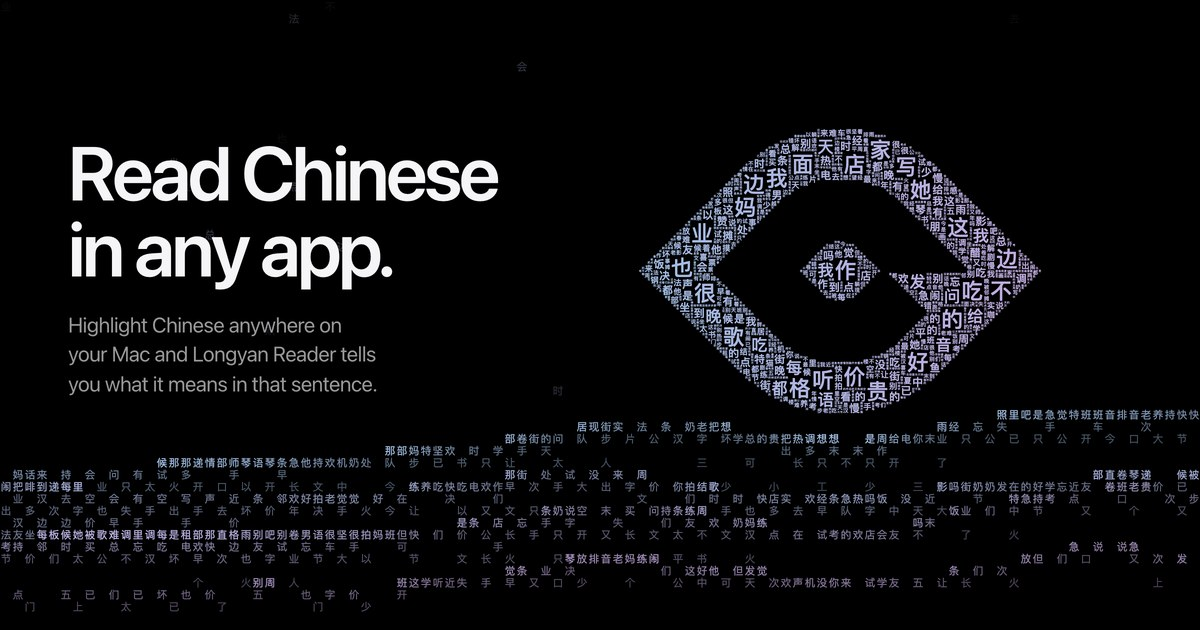
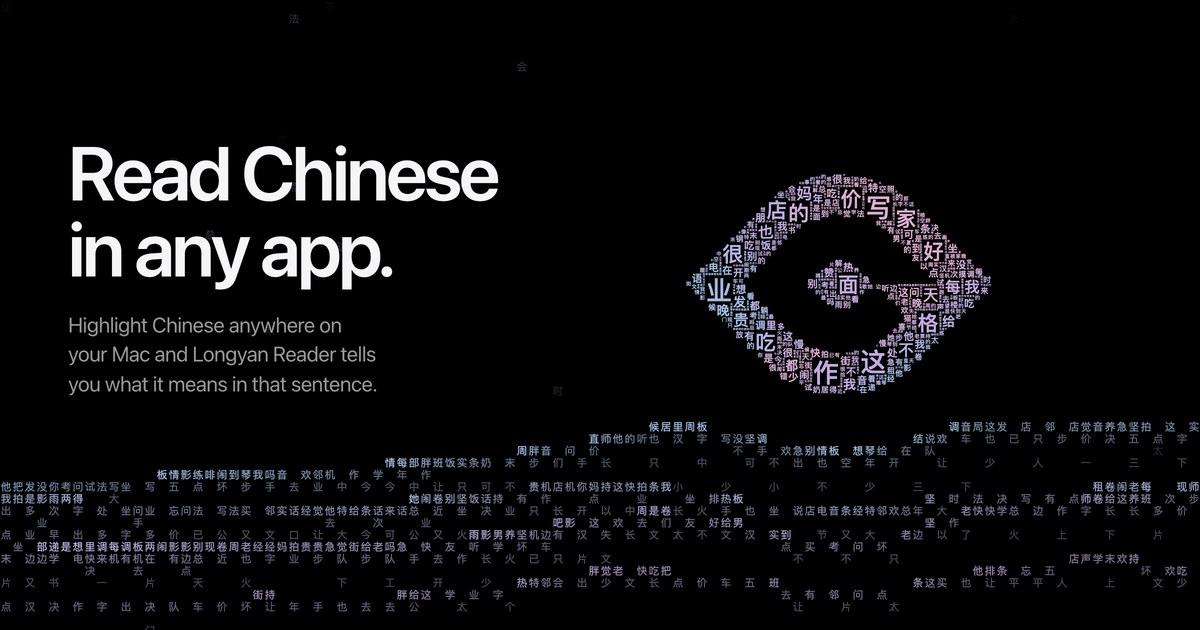
Landing eye: pearl tints, more sizes, mixed sizes on the edge, joined hook
The eye's characters get a fixed per-character tint (blue, lavender, a little
rose and mint) and nine sizes. Characters may stand slightly past the outline,
never cut, so the edge takes every size, and a few small ones bridge the point
where the pupil meets the wedge. Desktop eye is smaller and the mountains fall
and fade as on a phone.

Changed region(s): [[0.0, 0.181, 1.0, 0.9651]]

diff --git a/site/hero.js b/site/hero.js
@@ -4,7 +4,7 @@
 // light characters (一, 人) where it's dim, dense ones where it's bright, none where it's
 // dark, on a 4×4 ordered dither. A few faint characters are stars.
 //
-// The eye is set in everyday sentences, in characters of six sizes: big ones where the mark
+// The eye is set in everyday sentences, in characters of many sizes: big ones where the mark
 // is thick, smaller and smaller toward its edges. Every character is whole and sits inside
 // the mark, a vector built from its geometry (below); nothing is masked, so the shape is just
 // where the characters are, traced finely by the smallest. Characters with too little ink to
@@ -96,20 +96,23 @@
     for (let k = o.length - 1; k > 0; k--) { const j = Math.floor(hash(pass * 31 + k * 7.13) * (k + 1)); [o[k], o[j]] = [o[j], o[k]]; }
     return o;
   }
-  // The eye's characters, packed into the mark on a grid of half units: squares of 4, 3 and 2
-  // units where they fit, then sizes from 2 units down to a half for the rest. Every character sits wholly
-  // inside the mark; nothing is cut. The half units trace the edge finely enough that the
-  // shape still reads.
+  // The eye's characters, packed into the mark on a grid of half units: big squares first,
+  // up to 5 units, then sizes from 2 units down to a half for the rest. Characters are never
+  // cut. Along the edge a character may stand a little past the outline (a bigger one by a
+  // smaller share of its side, the tiniest not at all), which is about the blank margin a
+  // character has round its ink anyway; that lets the edge take every size, not only the
+  // smallest, and lets the pupil's point and the wedge's tip fill in so they meet.
   function pack(unit) {
-    const h = unit / 2;
-    const ucols = Math.ceil(eye.w / h) + 4, urows = Math.ceil(eye.h / h) + 4;
+    const h = unit / 2, q = h / 2;
+    // Even counts, so the eye's centre line (the wedge's top edge) is a line of the grid.
+    const ucols = 2 * Math.ceil(eye.w / h / 2) + 6, urows = 2 * Math.ceil(eye.h / h / 2) + 6;
     const ux0 = eye.cx - (ucols * h) / 2, uy0 = eye.cy - (urows * h) / 2;
     const test = document.createElement("canvas").getContext("2d");
     test.setTransform(...markMatrix());
-    // Which corners of the grid are inside the mark.
-    const LC = ucols + 1, lat = new Uint8Array(LC * (urows + 1));
-    for (let r = 0; r <= urows; r++) for (let c = 0; c <= ucols; c++)
-      lat[r * LC + c] = test.isPointInPath(mark, ux0 + c * h, uy0 + r * h, "evenodd") ? 1 : 0;
+    // Which points of a grid of quarter units are inside the mark.
+    const FC = 2 * ucols + 1, FR = 2 * urows + 1, fin = new Uint8Array(FC * FR);
+    for (let r = 0; r < FR; r++) for (let c = 0; c < FC; c++)
+      fin[r * FC + c] = test.isPointInPath(mark, ux0 + c * q, uy0 + r * q, "evenodd") ? 1 : 0;
     const owner = new Int32Array(ucols * urows).fill(-1);
     const out = [];
     let seq = 0, pass = 50, queue = [];
@@ -117,12 +120,15 @@
       while (!queue.length) for (const sIdx of order(pass++)) [...PAGE[sIdx].s].forEach((ch, i) => { if (!PUNCT.test(ch) && !SPARSE.test(ch)) queue.push({ ch, s: sIdx, i }); });
       return queue.shift();
     };
-    // A square n half units on a side fits if it's free and all of it, with `m` half units
-    // of room around it, is inside the mark.
-    const fits = (c, r, n, m = 0) => {
-      if (c - m < 0 || r - m < 0 || c + n + m > ucols || r + n + m > urows) return false;
+    // How far past the outline, in quarter units, a square n half units on a side may stand.
+    const SLACK = { 1: 0, 2: 1, 3: 2, 4: 2, 5: 2, 6: 2, 8: 2, 10: 2 };
+    // A square fits if it's free and, inset by `s` quarter units (less than zero keeps it that
+    // far inside), it's all inside the mark.
+    const fits = (c, r, n, s = SLACK[n]) => {
+      if (c < 1 || r < 1 || c + n > ucols - 1 || r + n > urows - 1) return false;
       for (let y = r; y < r + n; y++) for (let x = c; x < c + n; x++) if (owner[y * ucols + x] >= 0) return false;
-      for (let y = r - m; y <= r + n + m; y++) for (let x = c - m; x <= c + n + m; x++) if (!lat[y * LC + x]) return false;
+      const a = 2 * c + s, b = 2 * (c + n) - s, t = 2 * r + s, d = 2 * (r + n) - s;
+      for (let y = t; y <= d; y++) for (let x = a; x <= b; x++) if (!fin[y * FC + x]) return false;
       return true;
     };
     const place = (c, r, n) => {
@@ -130,18 +136,47 @@
       for (let y = r; y < r + n; y++) for (let x = c; x < c + n; x++) owner[y * ucols + x] = k;
       out.push({ ...next(), x: ux0 + c * h, y: uy0 + r * h, w: n * h, rnd: hash(++seq * 1.37 + 0.2) });
     };
+    // Where the pupil's point meets the wedge's tip the mark narrows to a point, which only the
+    // smallest characters would fit. A few small ones sit right across it, their tops on the
+    // wedge's edge, so the pupil and the hook read as one stroke, as in the icon.
+    {
+      const jc = Math.round((eye.cx + P * eye.s - ux0) / h), jr = urows / 2;
+      for (const [dc, n] of [[-1, 2], [1, 2], [3, 3], [-3, 2], [-2, 2], [6, 3]]) {
+        const c = jc + dc;
+        for (let dx = 0; dx < n; dx++) if (fits(c - dx, jr, n, n)) { place(c - dx, jr, n); break; }
+      }
+    }
     // How much of the area each big size tries for.
     let area = 0;
-    for (let r = 0; r < urows; r++) for (let c = 0; c < ucols; c++) if (lat[r * LC + c] && lat[(r + 1) * LC + c + 1]) area++;
-    // The big ones keep off the edge, so the outline is always traced in fine characters
-    // and the sizes taper toward it.
-    // Most big ones keep a little off the edge; some come right up to it.
-    for (const [n, share] of [[8, 0.44], [6, 0.24], [4, 0.16]]) {
-      const want = Math.round((area * share) / (n * n)), tries = want * 16;
+    for (let r = 0; r < urows; r++) for (let c = 0; c < ucols; c++) if (fin[(2 * r + 1) * FC + 2 * c + 1]) area++;
+    // Big ones scattered first. Some keep a little off the edge, some come right up to it,
+    // so the outline is traced in all sizes.
+    for (const [n, share] of [[10, 0.16], [8, 0.2], [6, 0.18], [5, 0.08], [4, 0.1]]) {
+      const want = Math.round((area * share) / (n * n)), tries = want * 20;
       for (let k = 0, got = 0; k < tries && got < want; k++) {
         const c = Math.floor(hash(n * 1000 + k * 1.618) * ucols), r = Math.floor(hash(n * 2000 + k * 2.414) * urows);
-        const m = hash(n * 3000 + k * 0.577) < 0.6 ? 1 : 0;
-        if (fits(c, r, n, m)) { place(c, r, n); got++; }
+        const roll = hash(n * 3000 + k * 0.577);
+        const s = roll < 0.35 ? -1 : roll < 0.7 ? 0 : SLACK[n];
+        if (fits(c, r, n, s)) { place(c, r, n); got++; }
+      }
+    }
+    // Then the edge: each free cell on the outline, in no particular order, takes a size of
+    // 2 to 4 half units picked at random, so the outline isn't left to the smallest.
+    const edge = [];
+    for (let r = 1; r < urows - 1; r++) for (let c = 1; c < ucols - 1; c++) {
+      const y = 2 * r + 1, x = 2 * c + 1;
+      if (fin[y * FC + x] && (!fin[y * FC + x - 4] || !fin[y * FC + x + 4] || !fin[(y - 4) * FC + x] || !fin[(y + 4) * FC + x])) edge.push(r * ucols + c);
+    }
+    for (let k = edge.length - 1; k > 0; k--) { const j = Math.floor(hash(k * 0.613 + 11) * (k + 1)); [edge[k], edge[j]] = [edge[j], edge[k]]; }
+    for (const q of edge) {
+      if (owner[q] >= 0) continue;
+      const c = q % ucols, r = (q / ucols) | 0, roll = hash(q * 0.71 + 3);
+      const sizes = roll < 0.3 ? [4, 3, 2] : roll < 0.7 ? [3, 2] : [2];
+      let done = false;
+      for (const n of sizes) {
+        for (let dy = 0; dy < n && !done; dy++) for (let dx = 0; dx < n && !done; dx++)
+          if (fits(c - dx, r - dy, n)) { place(c - dx, r - dy, n); done = true; }
+        if (done) break;
       }
     }
     // Then the rest, in no particular order, each spot taking a size picked at random from
@@ -154,7 +189,7 @@
       if (owner[q] >= 0) continue;
       const roll = hash(q * 1.31 + 9);
       // Prefer the bigger sizes that fit; the roll lets some spots take a smaller one.
-      const sizes = roll < 0.5 ? [4, 3, 2, 1] : roll < 0.85 ? [3, 2, 1] : [2, 1];
+      const sizes = roll < 0.45 ? [4, 3, 2, 1] : roll < 0.8 ? [3, 2, 1] : [2, 1];
       for (const n of sizes) {
         // A bigger square may sit up and left of this spot too.
         let done = false;
@@ -163,7 +198,20 @@
         if (done) break;
       }
     }
+    // Each character's tint, from a slow field across the eye: mostly blue and lavender, with
+    // a little rose and mint where the field turns, like the colours in a pearl.
+    for (const g of out) {
+      const u = (g.x + g.w / 2 - eye.x) / eye.w, v = (g.y + g.w / 2 - eye.y) / eye.h;
+      g.col = pearl(0.62 * u + 0.3 * v + 0.12 * Math.sin(6.2 * v + 2.4 * u) + (g.rnd - 0.5) * 0.1);
+    }
     return { unit: h, ucols, urows, ux0, uy0, owner, glyphs: out };
+  }
+  // The pearl tints in order; t runs 0..1 across the eye and wraps.
+  const PEARL = [[158, 208, 222], BLUE, LAV, [222, 174, 208], LAV, BLUE];
+  function pearl(t) {
+    t = ((t % 1) + 1) % 1 * PEARL.length;
+    const i = Math.floor(t), f = t - i, a = PEARL[i], b = PEARL[(i + 1) % PEARL.length];
+    return mix(a, b, f * f * (3 - 2 * f));
   }
 
   let W = 0, H = 0, dpr = 1, narrow = false;
@@ -228,30 +276,30 @@
     W = canvas.clientWidth; H = canvas.clientHeight;
     canvas.width = Math.round(W * dpr); canvas.height = Math.round(H * dpr);
     narrow = W < 760;
-    // The eye: right of centre and level with the headline on wide screens, at the top on narrow ones.
+    // The eye: on wide screens, beside the headline and second to it, about as tall as the
+    // headline and the line under it, centred on the text; on narrow ones, at the top.
     let ew, cx, cy;
     if (narrow) {
       const copy = document.querySelector(".hero-copy");
       const top = 60, bottom = copy ? copy.getBoundingClientRect().top - canvas.getBoundingClientRect().top : H * 0.55;
       ew = Math.min(W * 0.8, (bottom - top - 48) * (MW / MH)); cx = W / 2; cy = (top + bottom) / 2 - 10;
     } else {
-      ew = Math.min(W * 0.34, H * 0.56 * (MW / MH), 620);
-      cx = Math.min(W * 0.7, (W + 1120) / 2 - ew / 2 + 20); cy = H * 0.43;
+      ew = Math.min(W * 0.26, H * 0.42 * (MW / MH), 470);
+      cx = Math.min(W * 0.7, (W + 1120) / 2 - ew / 2 + 20); cy = H * 0.45;
     }
     const eh = ew * (MH / MW);
     eye = { w: ew, h: eh, cx, cy, x: cx - ew / 2, y: cy - eh / 2, s: ew / MW };
 
-    // The eye's text: the smallest characters about 70 to the eye's width.
-    const unit = clamp(Math.round((ew / 70) * 4) / 4, 4.5, 8);
+    // The eye's text: the smallest whole characters about 58 to the eye's width (fewer on a
+    // small eye, so they stay characters rather than dust).
+    const unit = clamp(Math.round((ew / 58) * 4) / 4, 4.5, 8);
     fine = pack(unit);
     lit = document.createElement("canvas");
     lit.width = canvas.width; lit.height = canvas.height;
     const l = lit.getContext("2d");
     l.setTransform(dpr, 0, 0, dpr, 0, 0); l.textAlign = "center"; l.textBaseline = "middle";
-    const ink = l.createLinearGradient(eye.x, 0, eye.x + eye.w, 0);
-    ink.addColorStop(0, rgb(BLUE)); ink.addColorStop(1, rgb(LAV));
-    l.fillStyle = ink;
     for (const g of fine.glyphs) {
+      l.fillStyle = rgb(g.col);
       // Big characters a little lighter in weight, so they don't outshine the rest.
       l.font = `${g.w >= unit * 3 ? 500 : 600} ${g.w * 0.94}px ${ZH}`;
       l.fillText(g.ch, g.x + g.w / 2, g.y + g.w / 2 + g.w * 0.04);
@@ -263,8 +311,14 @@
     cols = Math.ceil(W / cell); rows = Math.ceil(H / cell);
     buildAtlas();
     tops = [];
-    // The ranges start just under the eye, so it stands over them.
+    // The ranges start just under the eye, so it stands over them; on a wide screen, under
+    // the headline's last line too.
     landBase = Math.min(narrow ? 0.74 : 0.84, (eye.y + eye.h) / H + (narrow ? 0.1 : 0.085));
+    const copyEl = document.querySelector(".hero-copy");
+    if (!narrow && copyEl) {
+      const cb = copyEl.getBoundingClientRect(), top = canvas.getBoundingClientRect().top;
+      landBase = Math.min(0.86, Math.max(landBase, (cb.bottom - top) / H + 0.075));
+    }
     // On a phone the headline sits over the mountains: they go quiet behind it.
     const copy = document.querySelector(".hero-copy");
     if (narrow && copy) {
@@ -324,7 +378,7 @@
       if (pick < 0) return;
       used.add(pick);
       const g = fine.glyphs[pick];
-      flights.push({ line: l, k, ch, g: pick, x0: g.x + g.w / 2, y0: g.y + g.w / 2, size0: g.w * 0.94, u: (g.x - eye.x) / eye.w,
+      flights.push({ line: l, k, ch, g: pick, x0: g.x + g.w / 2, y0: g.y + g.w / 2, size0: g.w * 0.94, col: g.col,
         start: 0.04 + hash(j * 3.3 + current) * 0.1 });
     });
   }
@@ -342,22 +396,16 @@
     // gets broad ranges rather than more, smaller bumps. On a wide screen they stay low under
     // the headline, and open into a valley under the eye, so it floats clear over it with
     // ranges rising either side. The layers spread further down, to the bottom of the screen.
-    //
-    // As the sentence forms, a phone's ranges sink a little to make room. A wide screen's
-    // settle instead into one broad, even range just under the sentence, centred like it, so
-    // the sentence and the land read as one scene rather than a line floating over a strip.
+    // As the story plays they fall away and fade, the near ranges fastest. (On a phone they
+    // fade by falling behind the headline's quiet band; a wide screen fades them outright.)
+    const fade = narrow ? 1 : 1 - 0.72 * sink;
     const span = narrow ? H : H * 1.7, step = narrow ? 0.055 : 0.068;
-    const settle = (lines[0] ? (lines[0].y + lines[0].size * 0.65 + 110) / H : 0.66);
     for (let k = 0; k < 4; k++) {
       const amp = (narrow ? 0.15 : 0.18) - 0.028 * k;
-      const base = narrow
-        ? landBase + step * k + intro + sink * 1.9 * (0.06 + 0.05 * k)
-        : landBase + (settle + 0.12 - landBase) * sink + step * k + intro;
+      const base = landBase + step * k + intro + sink * 1.9 * (0.06 + 0.05 * k);
       for (let c = 0; c < cols; c++) {
         const px = (c + 0.5) * cell, x = px / span;
-        const hero = (0.38 + 0.62 * smooth(W * 0.28, eye.x, px)) * (1 - 0.6 * Math.exp(-Math.pow((px - eye.cx) / (eye.w * 0.34), 2)));
-        const formed = 0.55 + 0.45 * Math.exp(-Math.pow((px - W / 2) / (W * 0.42), 2));
-        const env = narrow ? 1 : hero + (formed - hero) * sink;
+        const env = narrow ? 1 : (0.38 + 0.62 * smooth(W * 0.28, eye.x, px)) * (1 - 0.6 * Math.exp(-Math.pow((px - eye.cx) / (eye.w * 0.34), 2)));
         tops[k][c] = base - amp * env * ridge(x * (0.85 + 0.45 * k) + k * 13.7);
         if (tops[k][c] < highest) highest = tops[k][c];
       }
@@ -377,7 +425,7 @@
         if (v < BAYER[(r & 3) * 4 + (c & 3)] * 0.85 + 0.06) continue;
         // Quantized, so a cell keeps its character until the light on it really changes.
         const level = Math.min(7, Math.floor(v * 6));
-        ctx.globalAlpha = Math.min(1, 0.32 + v * 0.5) * quiet;
+        ctx.globalAlpha = Math.min(1, 0.32 + v * 0.5) * quiet * fade;
         blit(landAtlas[layer], byInk(level / 9, hash((r * cols + c) * 1.7 + level), 0.06), c, r);
       }
     }
@@ -456,7 +504,7 @@
       const final = f.line.k === 0 ? 1 : 0.3;
       ctx.font = `${u > 0.6 ? 400 : 600} ${Math.round(size * 2) / 2}px ${ZH}`;
       ctx.globalAlpha = 1 - (1 - final) * smooth(0.6, 1, u);
-      ctx.fillStyle = rgb(mix(mix(BLUE, LAV, f.u), INK, smooth(0.35, 0.85, u)));
+      ctx.fillStyle = rgb(mix(f.col, INK, smooth(0.35, 0.85, u)));
       ctx.fillText(f.ch, x, y);
     }
     ctx.globalAlpha = 1;

diff --git a/site/DESIGN.md b/site/DESIGN.md
@@ -9,7 +9,7 @@ The site should feel like the app: exact, calm, made for reading Chinese. Black 
 | Night | `#000000` | Page background. |
 | Ink | `#f5f5f7` | Headlines and body text on Night. |
 | Graphite | `#86868b` | Secondary text, the grey half of captions. |
-| Moonlight | `#a1bde3` → `#c2abe0` | The eye: its text, blue to lavender, left to right. |
+| Moonlight | `#a1bde3` → `#c2abe0` | The eye: its text, mostly blue and lavender, with a little rose and mint where the tint turns, like a pearl. Each character has one tint; nothing moves. |
 | Tone 1–4 | `#e39e94` `#9ecca8` `#a1bde3` `#c2abe0` | The app's dark-mode tone colors. Only the cards use them, where they mean something. |
 
 Paper backdrops (`paper.js`) are five-stop ramps, deep to light: azure, rose, green, blue, violet and dusk. Each has folds of light that rise slowly and end in a clean crease, sometimes a disc of lighter paper, and on the feature tiles a lighter sheet along the bottom with a sharp edge. Grain is a CSS overlay at full resolution.
@@ -22,7 +22,7 @@ Paper backdrops (`paper.js`) are five-stop ramps, deep to light: azure, rose, gr
 
 ## Layout
 
-1. **Story.** Pinned while it plays. The Longyan eye over a range of mountains, all of it in Chinese characters. The mountains are a halftone made of characters: light ones (一, 人) where it's dim, dense ones where it's bright, none where it's dark, with mist drifting through. A few faint characters are stars. The eye is set in everyday sentences, blue to lavender, in characters of six sizes. Every character is whole and sits inside the mark; nothing is masked. Big ones mostly keep off the edge, and the characters on the outline vary from fine to medium, so it reads as type rather than a stencil. Characters too thin to fill their square, like 一 and 人, are left out of it. It comes in left to right. Pointing at a character shows the word it's part of and what it means in that sentence, from the app. Scrolling breaks the eye up, and its characters float out from all over, in arcs, into one sentence. Selecting works as in any Mac text: drag across characters, double-click a word, triple-click the sentence, shift-click to extend. Let go and the selection eases onto whole words and the app's card opens. No marks under the words. "Next sentence" lifts it away and brings the next one up in its place.
+1. **Story.** Pinned while it plays. The Longyan eye over a range of mountains, all of it in Chinese characters. The mountains are a halftone made of characters: light ones (一, 人) where it's dim, dense ones where it's bright, none where it's dark, with mist drifting through. A few faint characters are stars. The eye is set in everyday sentences, in pearl tints, in characters of nine sizes. Every character is whole; nothing is masked or cut. On the outline a character may stand a little past the edge (no more than the blank margin round its ink), so the outline takes every size from fine to large and reads as type rather than a stencil. A few small characters sit right across the point where the pupil meets the wedge, so the hook reads as one stroke, as in the icon. Characters too thin to fill their square, like 一 and 人, are left out of it. It comes in left to right. Pointing at a character shows the word it's part of and what it means in that sentence, from the app. Scrolling breaks the eye up, and its characters float out from all over, in arcs, into one sentence. Selecting works as in any Mac text: drag across characters, double-click a word, triple-click the sentence, shift-click to extend. Let go and the selection eases onto whole words and the app's card opens. No marks under the words. "Next sentence" lifts it away and brings the next one up in its place.
 2. **Statement.** One paragraph that lights up word by word as it scrolls.
 3. **Works where you read.** Full-bleed azure paper. A frosted window, cut off by the section's bottom edge, holds the recording.
 4. **Made for reading.** Four tiles: a piece of the real UI on paper, with a caption.
@@ -34,7 +34,8 @@ Paper backdrops (`paper.js`) are five-stop ramps, deep to light: azure, rose, gr
 - The mark is drawn from its geometry, not traced: three nested eye shapes (each the hull of a circle and two points, half-widths 1, 5/8 and 3/14) and one wedge. The stroke is even all round and the edges are as sharp as the screen. The old PNG wobbled.
 - One material: characters. Everything in the hero is drawn in them, whole. No masks, no halo, no glow.
 - The selection is the system blue with an iridescent violet-and-rose sheen moving through it, sized to the selection so even one character shows it.
-- On a wide screen the ridges are scaled to the screen's height, as on a phone, so they're broad ranges rather than many small bumps. They stay low under the headline and open into a valley under the eye. When the sentence forms they settle into one broad range just under it, so sentence and land read as one scene, as on a phone.
+- On a wide screen the ridges are scaled to the screen's height, as on a phone, so they're broad ranges rather than many small bumps. They stay low under the headline and open into a valley under the eye. As the story plays they fall away and fade, as on a phone.
+- On a wide screen the eye is second to the headline: about as tall as the headline and the line under it (a quarter of the width, at most 470px), level with the text.
 - The bar's logo is the mark alone in white, the app icon's negative, 25px wide.
 - Hairlines are 0.5px. Shadows are layered: a 0.5px ring, a tight shadow and a wide soft one.
 
